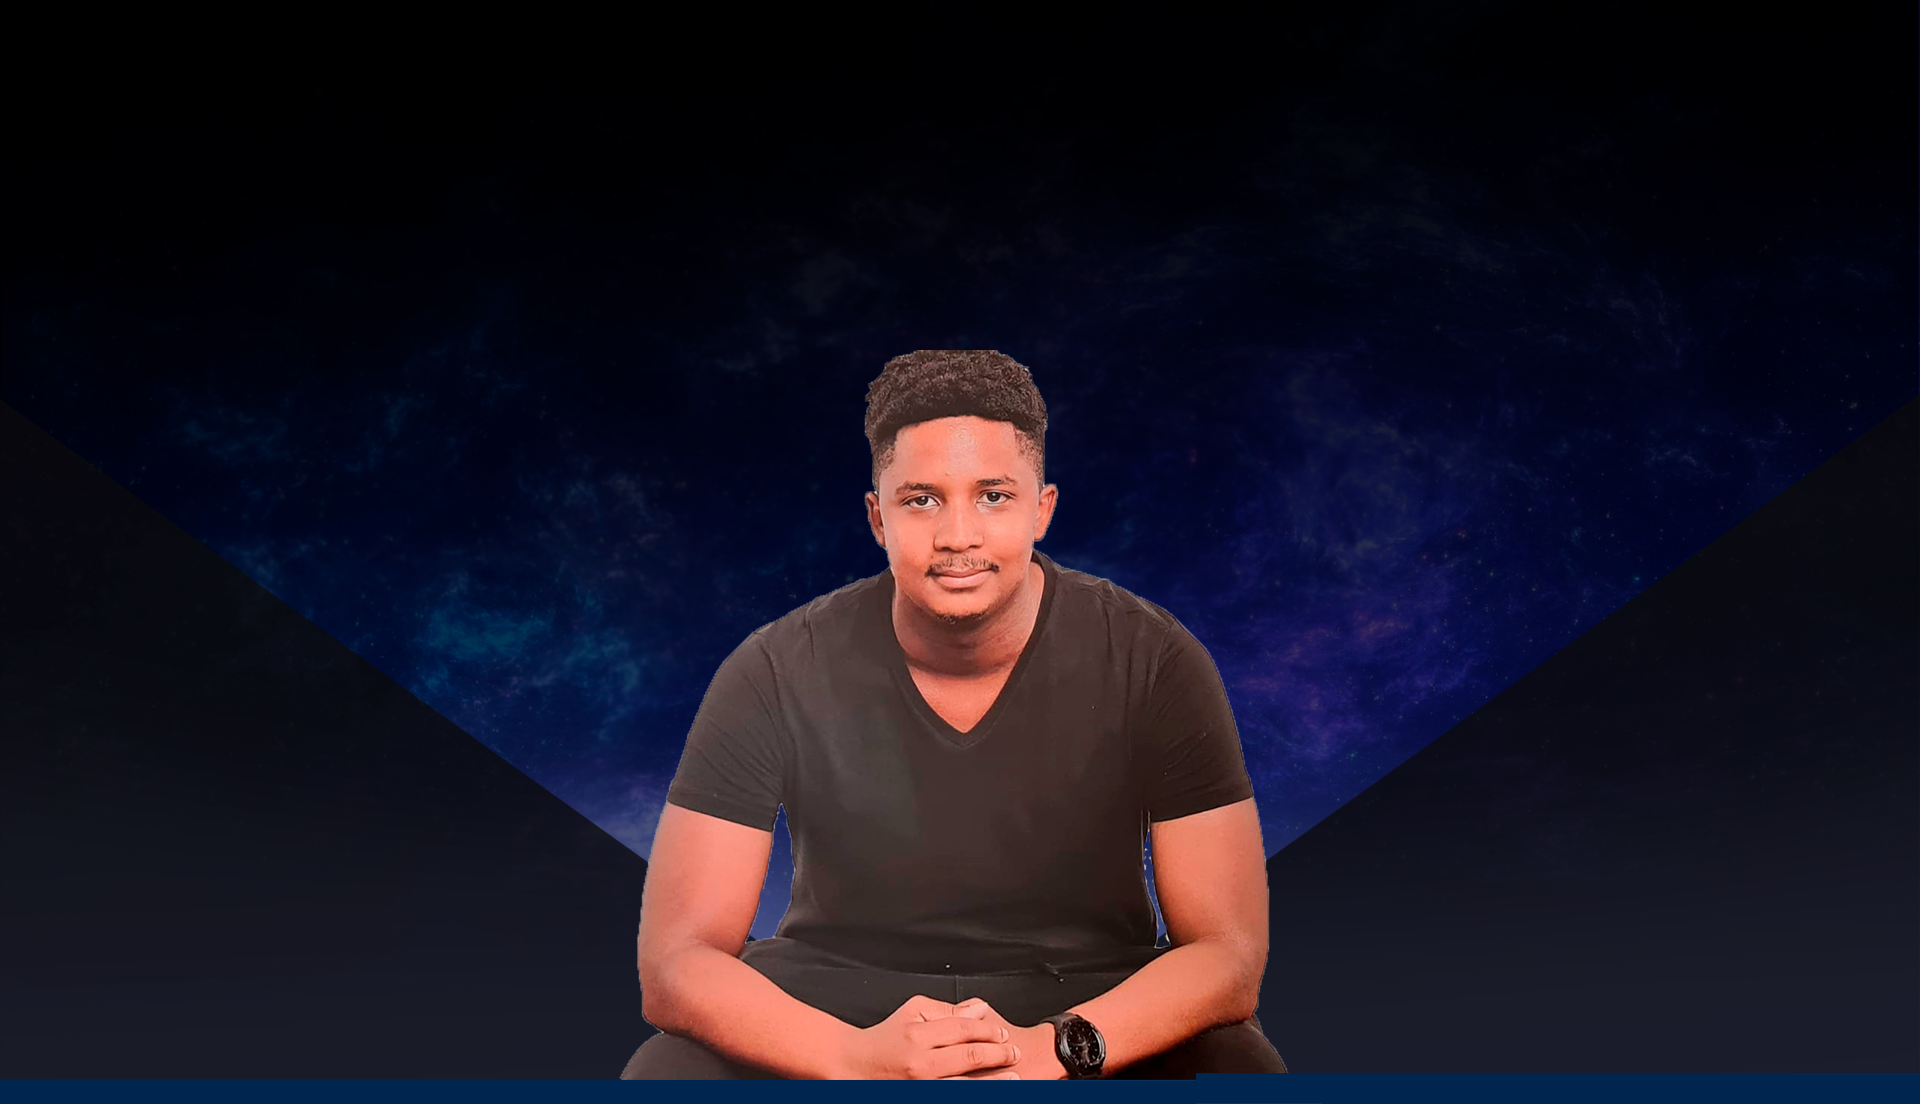
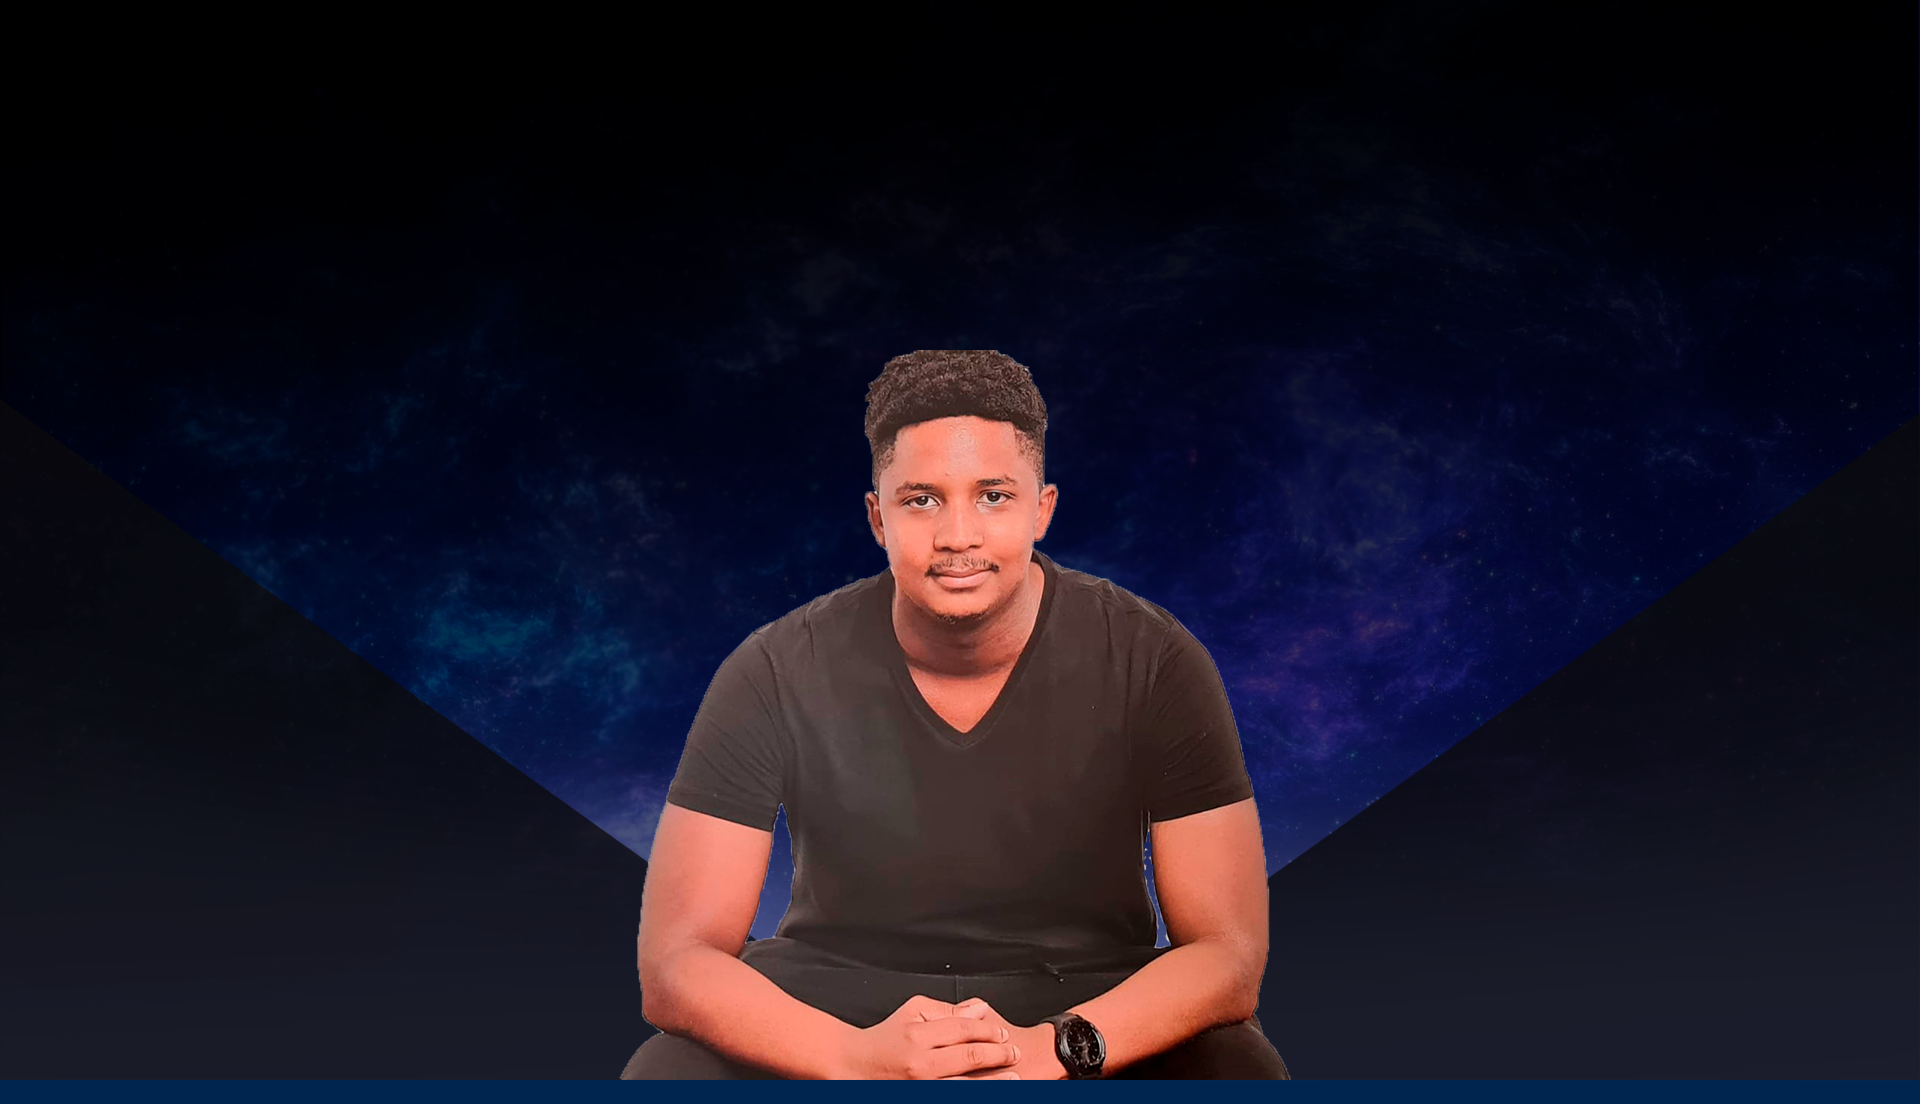
Corrigido layout para resoluções ultrawides

diff --git a/css/introdution.css b/css/introdution.css
@@ -29,7 +29,13 @@
 
 @media (min-width: 2000px) {
   .introdution {
-    margin: 100px auto 600px auto;
+    margin: 300px auto 400px auto;
+  }
+}
+
+@media (min-width: 2500px) {
+  .introdution {
+    margin: 400px auto 500px auto;
   }
 }
 
@@ -61,7 +67,7 @@
 @media (max-width: 900px) {
   .introdution {
     grid-template-columns: 1fr;
-    gap: 40px;
+    gap: 100px;
     justify-items: center;
   }
 
@@ -76,25 +82,40 @@
 }
 
 @media (max-width: 800px) {
+  .introdution {
+    gap: 90px;
+  }
+
   .title {
     margin-top: 50px;
     font-size: 3rem;
   }
 }
 
-@media (max-width: 600px) {
+@media (max-width: 700px) {
   .title {
-    margin-top: 0px;
     font-size: 2.5rem;
+  }
+}
+
+@media (max-width: 600px) {
+  .introdution {
+    margin: 50px auto 28vw auto;
+  }
+
+  .title {
+    margin-top: 30px;
+    font-size: 2rem;
   }
 }
 
 @media (max-width: 500px) {
   .introdution {
-    margin: 100px auto 25vw auto;
+    margin: 70px auto 25vw auto;
   }
 
   .title {
-    font-size: 2rem;
+    margin-top: 0px;
+    font-size: 1.85rem;
   }
 }

diff --git a/index.html b/index.html
@@ -10,7 +10,6 @@
 
 <body class="home">
     <header class="header">
-        <img class="logo" src="assets/images/logo.png" alt="Logo">
         <nav>
             <ul class="header-menu">
                 <li><a href="#about-me-id">Sobre Mim</a></li>
@@ -19,6 +18,8 @@
                 <li><a href="#contact">Contato</a></li>
             </ul>
         </nav>
+        <div class="space-content"></div>
+        <img class="logo" src="assets/images/logo.png" alt="Logo">
     </header>
     <main class="introdution">
         <h1 class="title">Desenvolvedor<br>Mobile & Web</h1>

diff --git a/css/header.css b/css/header.css
@@ -1,15 +1,20 @@
 .header {
-  max-width: 1300px;
+  max-width: 2900px;
   padding: 40px 20px;
-  margin: 0 auto;
+  margin: 0px auto;
   display: flex;
-  justify-content: space-between;
+  justify-content: center;
   align-items: center;
 }
 
 .header a {
   background: #03234f;
   border-radius: 10px;
+}
+
+.space-content {
+  width: 40vw;
+  max-width: 700px;
 }
 
 .header a:hover {
@@ -35,6 +40,12 @@
 
 .logo {
   width: 5rem;
+}
+
+@media (min-width: 1300px) {
+  .header {
+    background-color: black;
+  }
 }
 
 @media (max-width: 600px) {

diff --git a/css/global.css b/css/global.css
@@ -50,6 +50,19 @@ img {
   margin-top: 150px;
 }
 
+@media (min-width: 2500px) {
+  .home {
+    background-image: url("../assets/images/background_home_ultrawide_50.png");
+    max-height: 800px;
+  }
+}
+
+@media (min-width: 2000px) {
+  .home {
+    background-image: url("../assets/images/background_home_ultrawide.png");
+  }
+}
+
 @media (max-width: 1200px) {
   .subtitle {
     font-size: 5rem;
